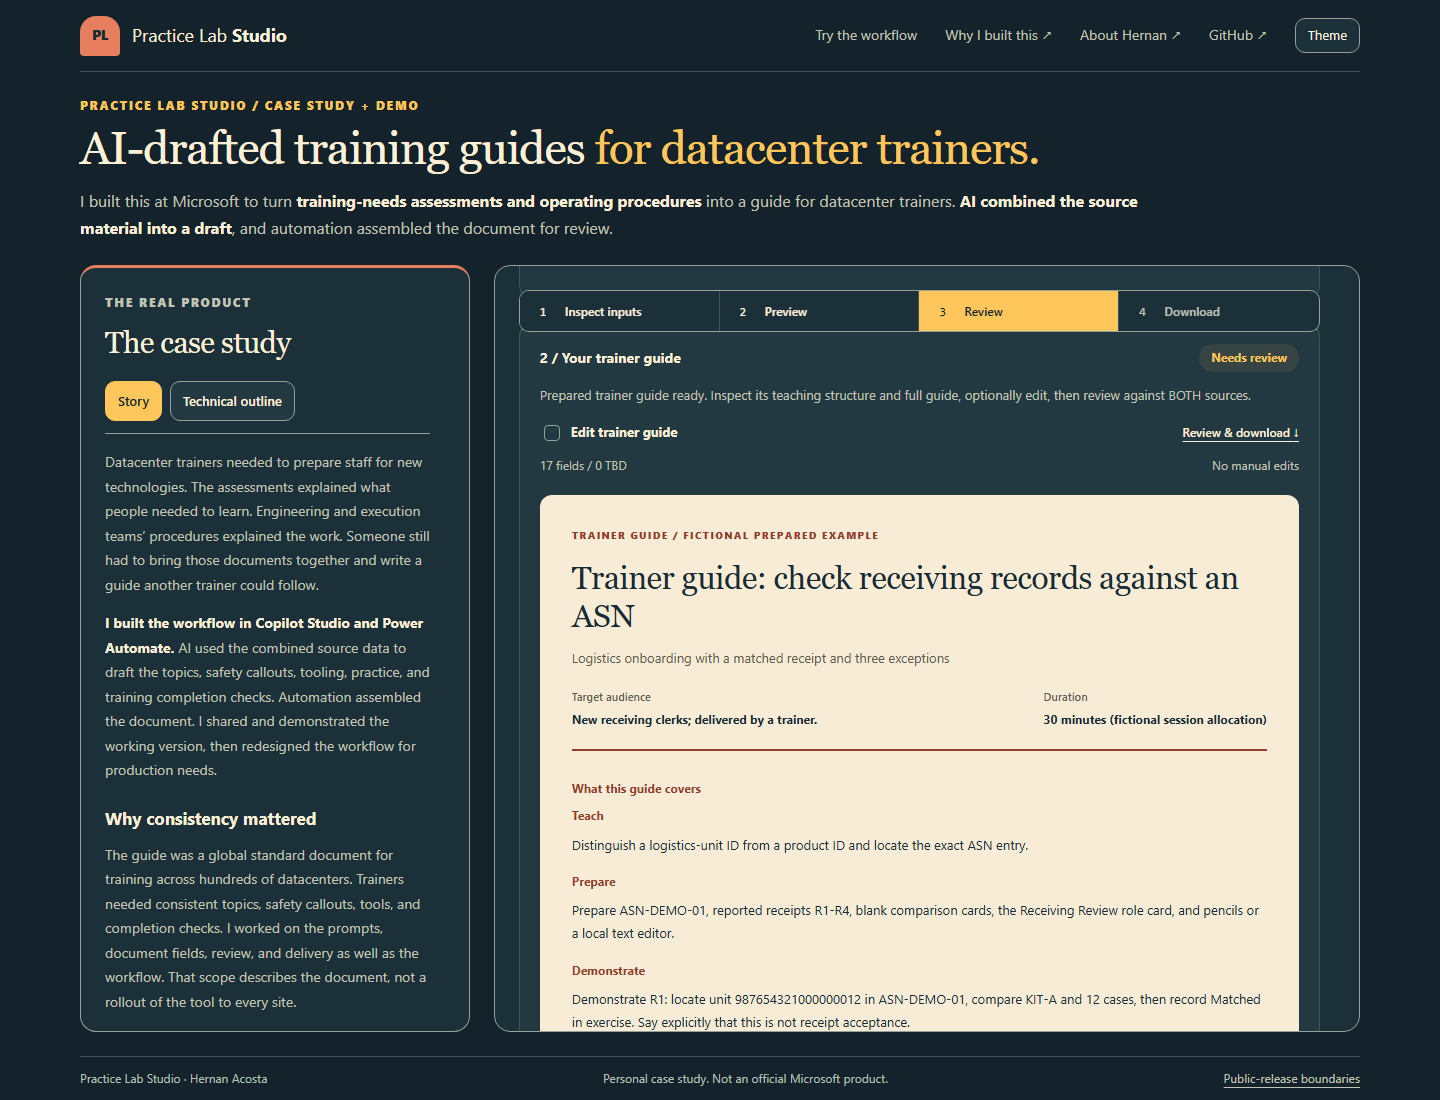
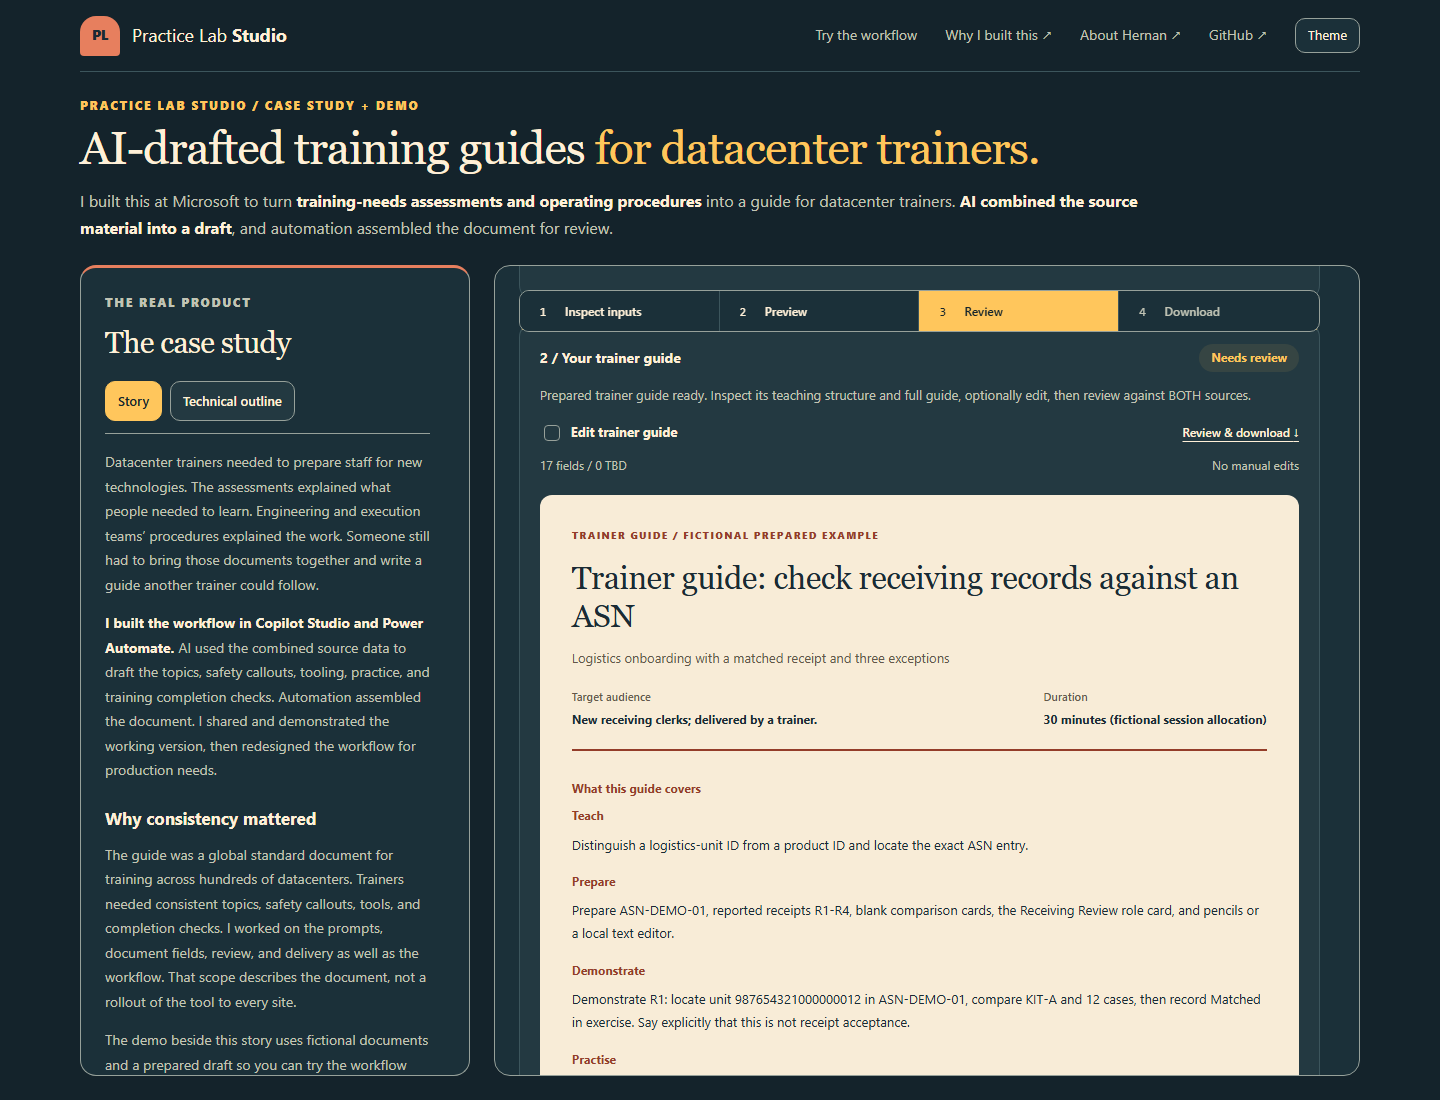
Remove demo page footer and refresh previews

Changed region(s): [[0.375, 0.9273, 0.9375, 0.9891], [0.0625, 0.9273, 0.3125, 0.9891]]

diff --git a/src/lab.css b/src/lab.css
@@ -141,11 +141,10 @@
 .worksheet-section { scroll-margin-top: 96px; }
 @media (min-width: 761px) and (min-height: 700px) {
   .lab-page { height: 100dvh; display: flex; flex-direction: column; }
-  .lab-page .site-header, .lab-page footer, .lab-hero { flex-shrink: 0; }
+  .lab-page .site-header, .lab-hero { flex-shrink: 0; }
   .lab-page main { flex: 1; min-height: 0; display: flex; flex-direction: column; }
   .case-demo-layout { flex: 1; min-height: 0; grid-template-rows: minmax(0, 1fr); }
   .pane-scroll { height: 100%; }
-  .lab-page footer { padding-block: 12px; }
 }
 @media (max-width: 1000px) {
   .case-demo-layout { gap: 16px; }

diff --git a/lab.html b/lab.html
@@ -163,7 +163,6 @@
     </section>
     </div>
   </main>
-  <footer><span>Practice Lab Studio &middot; Hernan Acosta</span><span>Personal case study. Not an official Microsoft product.</span><a href="https://github.com/Hernanacostaa/practice-lab-studio/blob/main/docs/PUBLIC_RELEASE.md" target="_blank" rel="noopener noreferrer">Public-release boundaries</a></footer>
   <script>/* INLINE_APP */</script>
 </body>
 </html>
